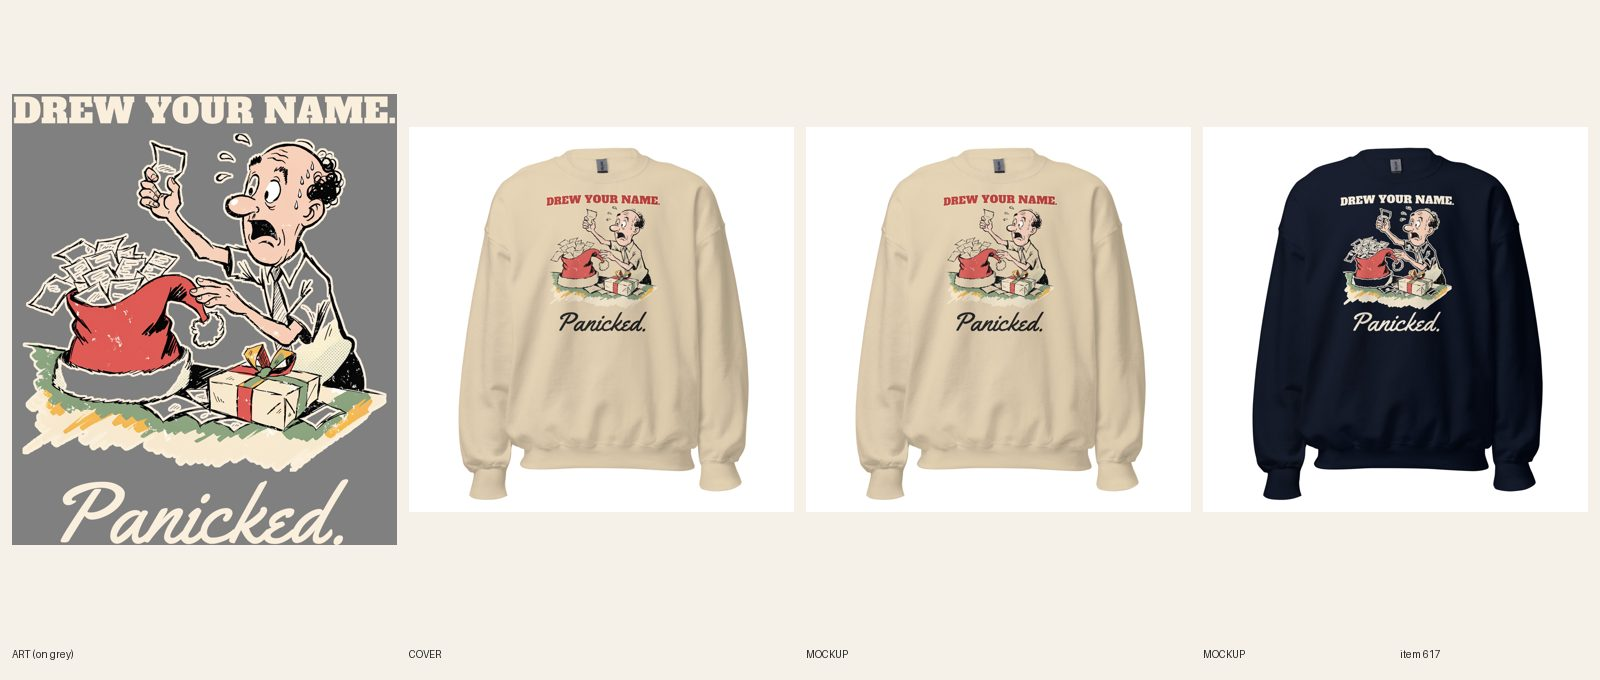
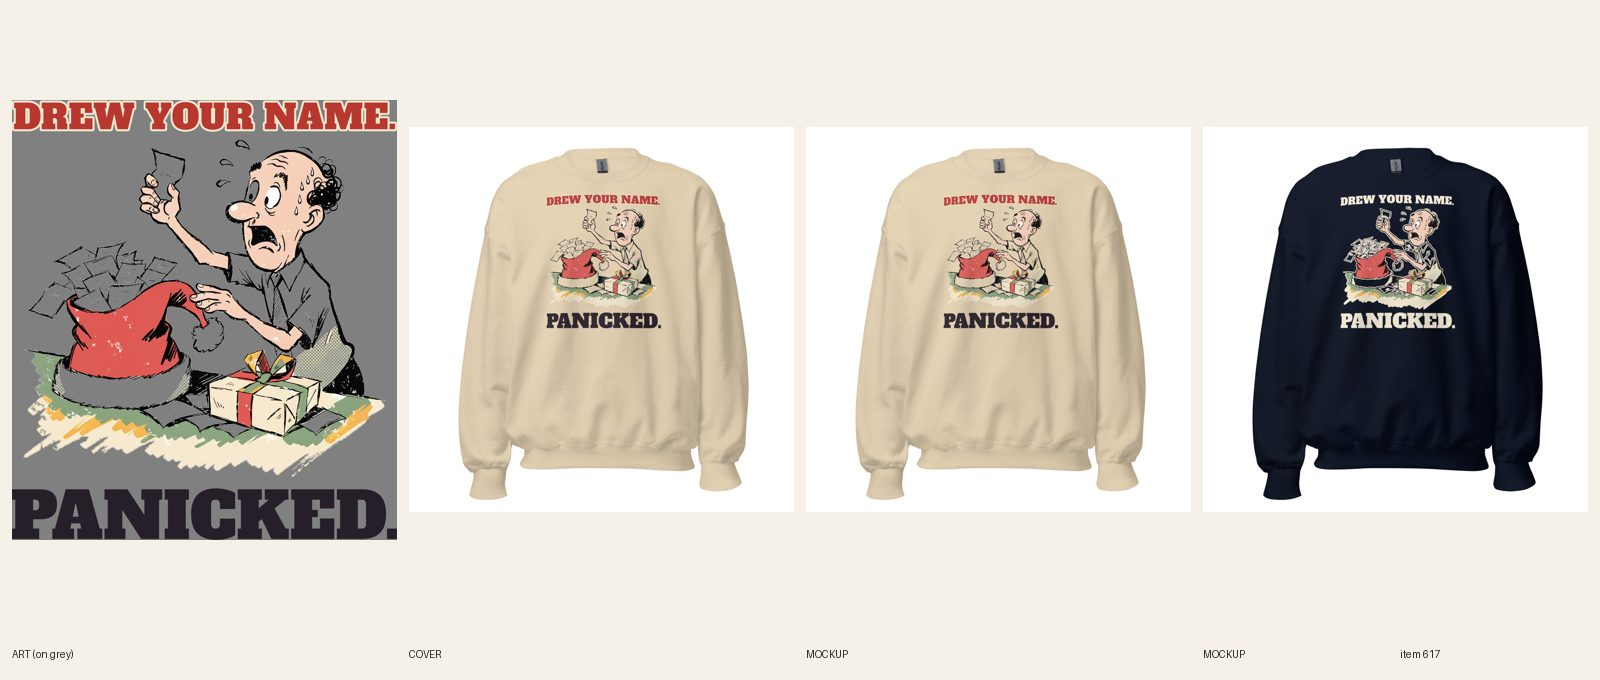
[A] review 617 (redo)
Claude-Session: https://claude.ai/code/session_01LaaEYpKaSBZd9opL7Tpo7i

diff --git a/docs/pipeline/617-christmas-crewneck-drew-your-name-panicked.md b/docs/pipeline/617-christmas-crewneck-drew-your-name-panicked.md
@@ -1,4 +1,4 @@
-status: REDO
+status: REVIEW
 lane: A
 type: twin
 id: 617
@@ -31,3 +31,4 @@ kd: 10
 - 2026-10-18 14:06 UTC Claude: KEYWORD FIX before build (R2.10). The primary is a gift-guide search ("christmas gifts for ..."): huge volume, single-digit KD and no competition count on RankHero, the same false signal as "park sweatshirt". People searching it want idea lists, not one shirt. Builder: re-target the primary to a real shirt phrase with a competition count (try e.g. "funny christmas shirt", "secret santa gift", "matching christmas shirts", "christmas shirt for brother" and pick the best measured one, not claimed in docs/product-keyword-map.json). The gift phrase may appear once in copy as a secondary. Then build as normal.
 - 2026-10-20 13:07 UTC builder [A]: BUILT (twin of #616 tee, DRAFT; plain product shot per R6.11, no AI cover). R6.2 check on the source print (#616 file 1088974085, 3064x3586): DREW YOUR NAME. is a real slab face with a cream edge and Panicked. a real script face (both fonts, no ring, arch, disc, box or book-serif line); the cartoon has no frame or panel; the tee's lockup was graded A by the director (art is the bar), so the twin keeps it unchanged. Sand takes the tee's file (1090368866). Navy gets its own file 1090368876 (R5.3.8, brief): headline and script recolored cream (headline's old cream edge dropped), cream outline around the cartoon so the black linework reads; read on the Navy mockup at phone size. Widths (7h): headline 3064 px, Panicked. script 2289 px (75% of the headline) (a script sign-off, as on the live tee; the director's A grade stands); subject 3064 px. FW 1650 TOP 75 (crewneck, no pouch). DRAFT gid://shopify/Product/15369750249776 (Gildan 18000, Sand + Navy x S-3XL = 12, $34.99, no compare-at, category aa-1-13-14, tags christmas-sweatshirts, christmas-sweatshirts-for-men, sweatshirt, christmas, ai-art, intake-done). Printful sync 483383802 verified 12/12 (Sand 6 on 1090368866, Navy 6 on 1090368876, back logo 1080398177). Sand + Navy fronts + back attached, front mockup linked to every variant of its color, alts per R7.8. Copy: line one = line + who wears it + when, plain; primary 'office christmas sweatshirt' (same re-target the director ordered for the tee: office christmas shirts 90 / KD 40; the crewneck phrase itself returned no RankHero numbers in this run, so it is unmeasured), 'funny secret santa gifts' (18,100 / KD 10 per brief) once as the secondary, no 'a good ___ gifts' aside; FAQs 5 at 49-57 words, order-by Dec 8, free size exchange; ink named from the mockups. Keyword map updated. design-crops / variant-photo-audit after publish. fal $0. Audit: only the expected not-visible (DRAFT) error. Sheet docs/review/617.jpg.
 - 2026-10-20 13:45 UTC director: REDO from docs/review/617.jpg (type only; keep art and line). 1. Quality-reset type bar + R3.7.8: Panicked. is a script line at about 80% of DREW YOUR NAME.'s width and reads as a caption on the Navy mockup (a thin script on a dark garment is out). Set PANICKED. in a heavy display face from the kit, at least as wide as the headline (it can be the loudest line), dark ink on Sand, cream on Navy. Log both ink widths (card 7h). 2. Same new print goes on the #616 tee so the pair matches (616 sent back with this note). Plain product shot, $0.
+- 2026-10-20 15:19 UTC builder [A]: REDO done (director 2026-10-20 13:45: type only, keep art and line; PANICKED. in a heavy display face at least as wide as the headline, dark on Sand, cream on Navy). Same re-lettered print as the #616 tee (one design, R3.9): Alfa Slab One PANICKED., near-black (38,30,40) on Sand (file 1090398249), cream (246,236,214) on Navy (file 1090398280, headline keeps its cream, cream outline around the cartoon). Widths (7h): headline ink 3064 px (Sand) / 3032 px (Navy), PANICKED. ink 3064 px (100% / 101%); punch height 412 px against 253 px. Print 3064x3505. FW 1650 TOP 75, sync 483383802 relinked verified below (12/12; Sand 6 on 1090398249, Navy 6 on 1090398280). 2 fronts replaced in place (fileUpdate), phone-size read ok on both. Copy: Story lettering sentence and FAQ 3 (colors) updated to the slab PANICKED. wording; title and SEO unchanged. Plain product shot kept. fal $0. audit PASS; build ok.

diff --git a/docs/intake-log.md b/docs/intake-log.md
@@ -1,3 +1,5 @@
+RUNNING lane C since 2026-10-20 15:08 UTC
+2026-10-20 15:19 UTC — [A] Builder run: #617 PANICKED. re-lettered (heavy slab), 12/12 synced. REVIEW. fal $0.
 2026-10-20 15:18 UTC — [A] Builder run: #616 PANICKED. re-lettered (heavy slab), 42/42 synced. REVIEW. fal $0.
 2026-10-20 15:30 UTC — [C] Builder run: built #713 Women's Cat Do Not Disturb. Biscuits in Progress. sweatpants (Navy Blazer + Dusty Rose, #577 art re-laid for the leg, 12/12 synced). REVIEW. fal $0.
 RUNNING lane E since 2026-10-20 14:20 UTC
